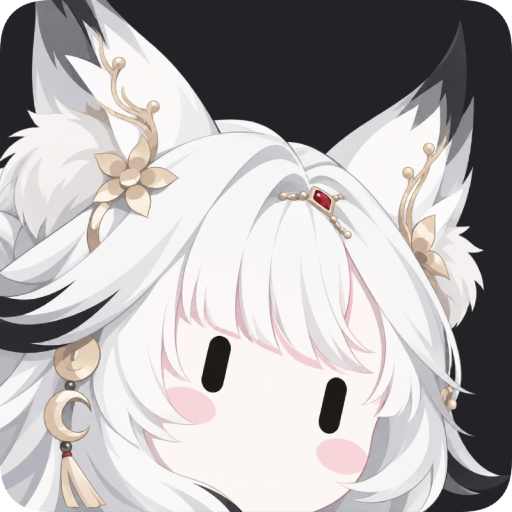
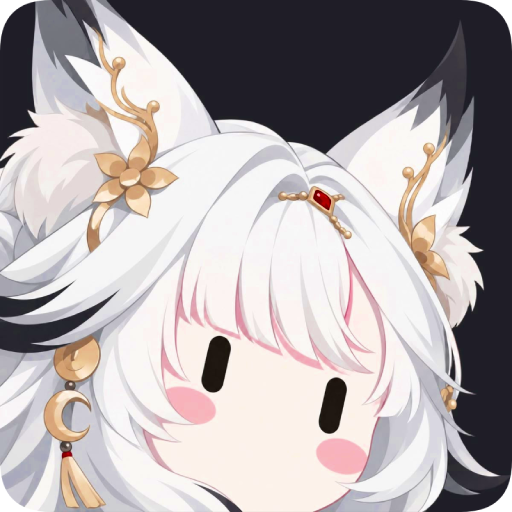
logs: drop per-row library log
+ system info header in session log

+ download and stores login login lines

+ update icon (again)

diff --git a/crates/omikuji-core/src/downloads/mod.rs b/crates/omikuji-core/src/downloads/mod.rs
@@ -654,6 +654,14 @@ impl DownloadManager {
 
             set_status(&entry.id, DownloadStatus::Starting);
             throttle::global().reload();
+            tracing::info!(
+                "{}: {} started via {} into {}",
+                entry.display_name,
+                entry.kind.label(),
+                entry.source,
+                entry.install_path.display()
+            );
+            let started = std::time::Instant::now();
 
             let result = match &entry.kind {
                 DownloadKind::Install => source.install(&entry).await,
@@ -672,14 +680,26 @@ impl DownloadManager {
                     .unwrap_or(ControlSignal::None)
             };
 
+            let elapsed = started.elapsed().as_secs();
             match (result, final_signal) {
-                (_, ControlSignal::Pause) => set_status(&entry.id, DownloadStatus::Paused),
+                (_, ControlSignal::Pause) => {
+                    tracing::info!("{}: paused after {elapsed}s", entry.display_name);
+                    set_status(&entry.id, DownloadStatus::Paused);
+                }
                 (_, ControlSignal::Cancel) => {
+                    tracing::info!("{}: cancelled after {elapsed}s", entry.display_name);
                     discard_partial(&entry);
                     finish_bar(&entry.id, &entry.display_name, "cancelled");
                     mgr.inner.lock().unwrap().remove_entry(&entry.id);
                 }
-                (Ok(()), ControlSignal::None) => complete(&entry),
+                (Ok(()), ControlSignal::None) => {
+                    tracing::info!(
+                        "{}: {} finished in {elapsed}s",
+                        entry.display_name,
+                        entry.kind.label()
+                    );
+                    complete(&entry);
+                }
                 (Err(e), ControlSignal::None) => {
                     tracing::error!("{} failed: {e:?}", entry.display_name);
                     set_failed(&entry.id, format!("{e:#}"));

diff --git a/crates/omikuji/src/bridge/game_model.rs b/crates/omikuji/src/bridge/game_model.rs
@@ -920,6 +920,7 @@ impl Default for GameModelRust {
         let sort_mode = SortMode::parse(&AppSettings::load().display.card_sort);
         library.game.sort_by(|a, b| sort_mode.cmp(a, b));
         let count = library.game.len() as i32;
+        tracing::info!("library: {count} games");
         Self {
             library,
             count,
@@ -1300,19 +1301,6 @@ impl qobject::GameModel {
         let Some(game) = self.library.game.get(row) else {
             return QVariant::default();
         };
-
-        if role == ROLE_NAME {
-            tracing::debug!(
-                "row={} name='{}' coverart='{}'",
-                row,
-                game.metadata.name,
-                media::resolve_image(
-                    &game.metadata.id,
-                    &game.metadata.coverart,
-                    &MediaType::Coverart
-                )
-            );
-        }
 
         match role {
             ROLE_ID => QVariant::from(&QString::from(&*game.metadata.id)),
@@ -2305,8 +2293,7 @@ impl qobject::GameModel {
     }
 
     fn system_info(&self) -> QString {
-        let qt = option_env!("OMIKUJI_QT_VERSION").unwrap_or("unknown");
-        QString::from(&system_info::report(env!("CARGO_PKG_VERSION"), qt))
+        QString::from(&app_log::system_report())
     }
 
     fn app_version(&self) -> QString {

diff --git a/crates/omikuji-core/src/system_info.rs b/crates/omikuji-core/src/system_info.rs
@@ -59,10 +59,7 @@ pub fn report(app_version: &str, qt_version: &str) -> String {
     }
 
     fields.push(("Qt".into(), qt_version.to_string()));
-    fields.push((
-        "Flatpak".into(),
-        if in_flatpak() { "yes" } else { "no" }.into(),
-    ));
+    fields.push(("Package".into(), packaging().into()));
     for spec in components::specs::all() {
         fields.push((
             spec.name.into(),
@@ -177,6 +174,16 @@ fn ram() -> String {
 
 pub fn in_flatpak() -> bool {
     std::env::var("FLATPAK_ID").is_ok() || std::path::Path::new("/.flatpak-info").exists()
+}
+
+fn packaging() -> &'static str {
+    if in_flatpak() {
+        "flatpak"
+    } else if std::env::var_os("APPIMAGE").is_some() {
+        "appimage"
+    } else {
+        "native"
+    }
 }
 
 fn enumerate() -> Vec<Gpu> {

diff --git a/crates/omikuji-core/src/store/epic/mod.rs b/crates/omikuji-core/src/store/epic/mod.rs
@@ -130,6 +130,7 @@ impl EpicStore {
 
     pub async fn login(&mut self, code: &str) -> Result<String> {
         legendary_output_async(legendary_async()?.args(["auth", "--code", code.trim()])).await?;
+        tracing::info!("{STORE}: logged in");
 
         self.refresh_display_name();
         if self.display_name.is_empty() {
@@ -146,6 +147,7 @@ impl EpicStore {
         // drop cache so next login starts with an empty library, not the previous user's
         let _ = fs_err::remove_file(store::cache::library_path(STORE));
         self.display_name.clear();
+        tracing::info!("{STORE}: logged out");
         Ok(())
     }
 

diff --git a/crates/omikuji/src/app_log.rs b/crates/omikuji/src/app_log.rs
@@ -15,7 +15,7 @@ use tracing_subscriber::fmt::{
 };
 use tracing_subscriber::prelude::*;
 
-use omikuji_core::log_files;
+use omikuji_core::{log_files, system_info};
 
 use crate::log_fmt::ShortTarget;
 
@@ -136,6 +136,12 @@ pub fn start_session() {
         env!("CARGO_PKG_VERSION"),
         path.display()
     );
+    std::thread::spawn(|| tracing::info!("system:\n{}", system_report()));
+}
+
+pub fn system_report() -> String {
+    let qt = option_env!("OMIKUJI_QT_VERSION").unwrap_or("unknown");
+    system_info::report(env!("CARGO_PKG_VERSION"), qt)
 }
 
 fn install_panic_hook() {

diff --git a/crates/omikuji-core/src/store/gog/mod.rs b/crates/omikuji-core/src/store/gog/mod.rs
@@ -48,6 +48,7 @@ impl GogStore {
 
     pub async fn login(&mut self, code: &str) -> Result<String> {
         gogdl_output(&["auth", "--code", code.trim()]).await?;
+        tracing::info!("{STORE}: logged in");
 
         if let Err(e) = self.refresh_user_data().await {
             tracing::error!("refresh_user_data after login failed: {}", e);
@@ -209,6 +210,7 @@ impl GogStore {
         let _ = fs_err::remove_file(store::cache::library_path(STORE));
         self.display_name.clear();
         self.user_id.clear();
+        tracing::info!("{STORE}: logged out");
     }
 }
 

diff --git a/crates/omikuji-core/src/store/nile/mod.rs b/crates/omikuji-core/src/store/nile/mod.rs
@@ -387,6 +387,7 @@ impl NileStore {
 
         self.pending_login = None;
         self.display_name = name.clone();
+        tracing::info!("{STORE}: logged in");
         Ok(name)
     }
 
@@ -399,6 +400,7 @@ impl NileStore {
         let _ = fs_err::remove_file(store::cache::library_path(STORE));
         self.pending_login = None;
         self.display_name.clear();
+        tracing::info!("{STORE}: logged out");
         Ok(())
     }
 
